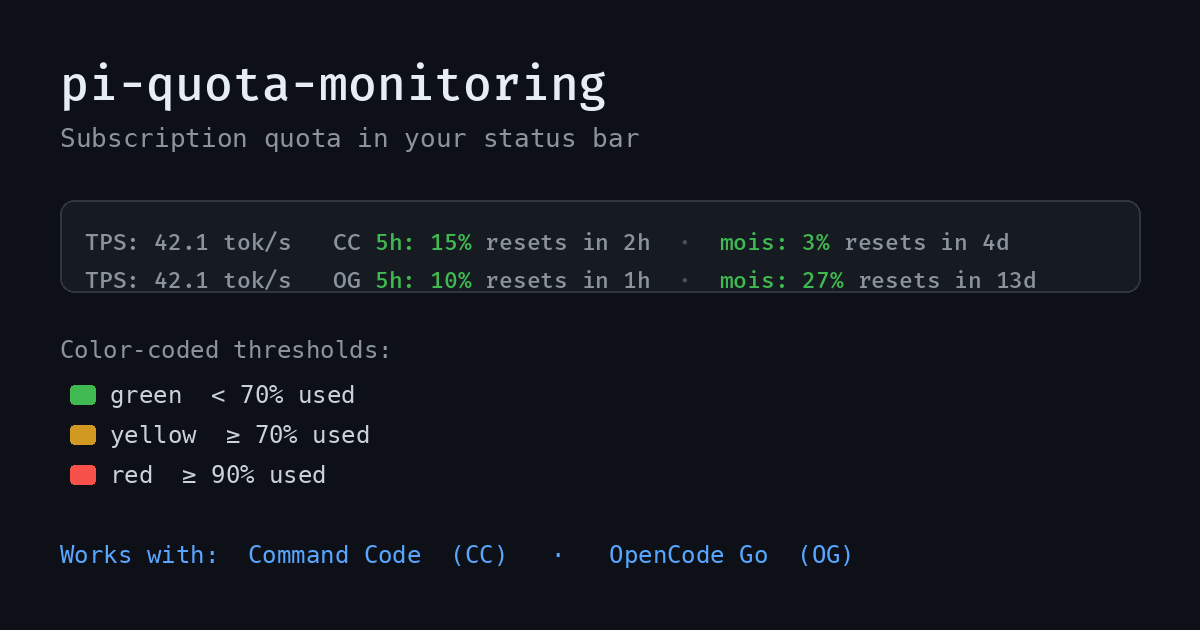
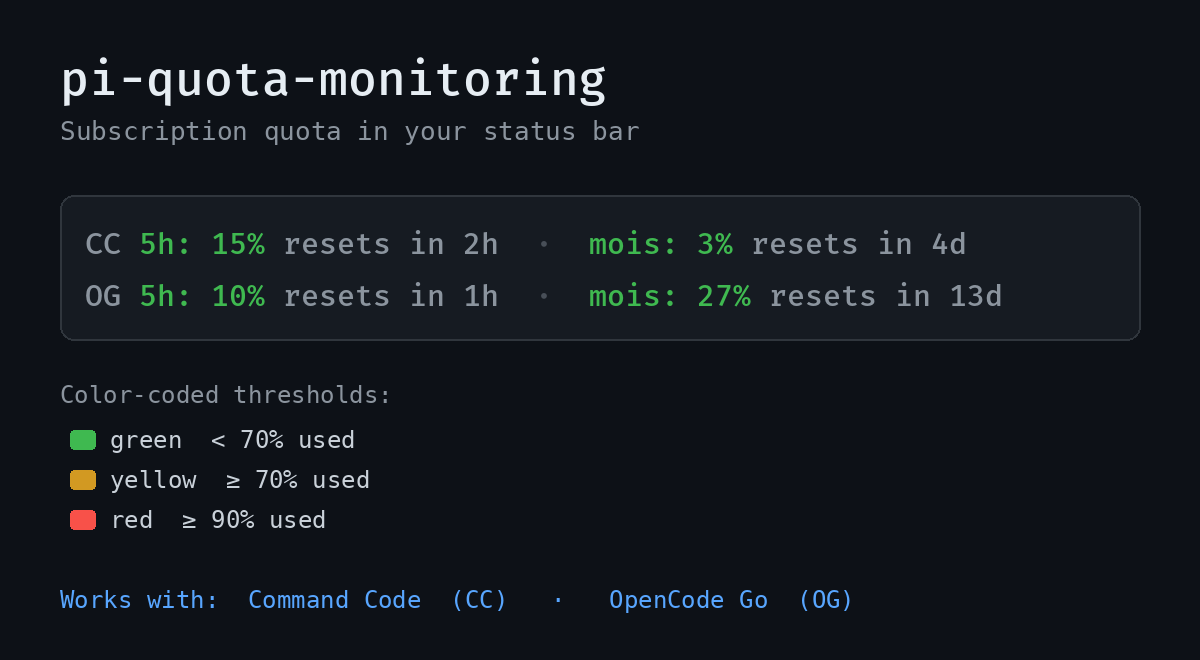
docs: remove misleading TPS references — this package only shows quota
The TPS readout comes from a separate package (pi-token-speed). This
extension only displays quota usage; it positions itself next to the TPS
readout when that package is installed.

- README: show quota-only examples; note pi-token-speed is optional and
  only affects where the quota appears in the footer
- package.json description: drop 'next to the TPS readout'
- assets/preview.png: regenerate without the fake TPS text — quota only

diff --git a/README.md b/README.md
@@ -1,6 +1,6 @@
 # pi-quota-monitoring
 
-A [pi](https://pi.dev) extension that shows your **subscription quota usage (%)** in the status bar — right next to your TPS readout.
+A [pi](https://pi.dev) extension that shows your **subscription quota usage (%)** in the status bar.
 
 Supported providers:
 
@@ -13,12 +13,14 @@ The quota only appears when you're using a model from a supported provider. Swit
 
 ## What it looks like
 
-In the pi footer, to the **right of your TPS** (from [pi-token-speed](https://github.com/gsanhueza/pi-token-speed)):
+In the pi footer, the extension shows one segment per usage window:
 
 ```
-⚡ TPS: 42.1 tok/s  CC 5h: 15% resets in 2h · mois: 3% resets in 4d
-⚡ TPS: 42.1 tok/s  OG 5h: 10% resets in 2h · mois: 27% resets in 13d
+CC 5h: 15% resets in 2h · mois: 3% resets in 4d
+OG 5h: 10% resets in 2h · mois: 27% resets in 13d
 ```
+
+If you also have [pi-token-speed](https://github.com/gsanhueza/pi-token-speed) installed, the quota appears to the **right of your TPS** readout (the `zz-quota` status key sorts right after `tokenSpeed`).
 
 - **Two windows shown**: the **5-hour** window (tighter limit, with reset countdown) and the **monthly** billing period
 - **Color-coded**: green (ok), yellow (≥70% used), red (≥90% used)
@@ -46,7 +48,7 @@ The extension reads the API key from pi's model registry (falling back to the st
 - **Command Code**: `GET https://api.commandcode.ai/alpha/whoami` → `GET /alpha/billing/credits` + `GET /alpha/usage/summary` — computes the 5-hour window percentage and the monthly billing-period percentage (`used / total`).
 - **OpenCode Go**: `GET https://opencode.ai/zen/go/v1/usage` — the API returns `rolling` (≈5h) and `monthly` percentages directly.
 
-The status is set under the key `zz-quota`, which sorts alphabetically just after `tokenSpeed` in pi's footer, placing it to the **right** of the TPS display.
+The status is set under the key `zz-quota`, which sorts alphabetically just after `tokenSpeed` in pi's footer (when [pi-token-speed](https://github.com/gsanhueza/pi-token-speed) is installed), placing the quota to the **right** of the TPS display.
 
 ## License
 
